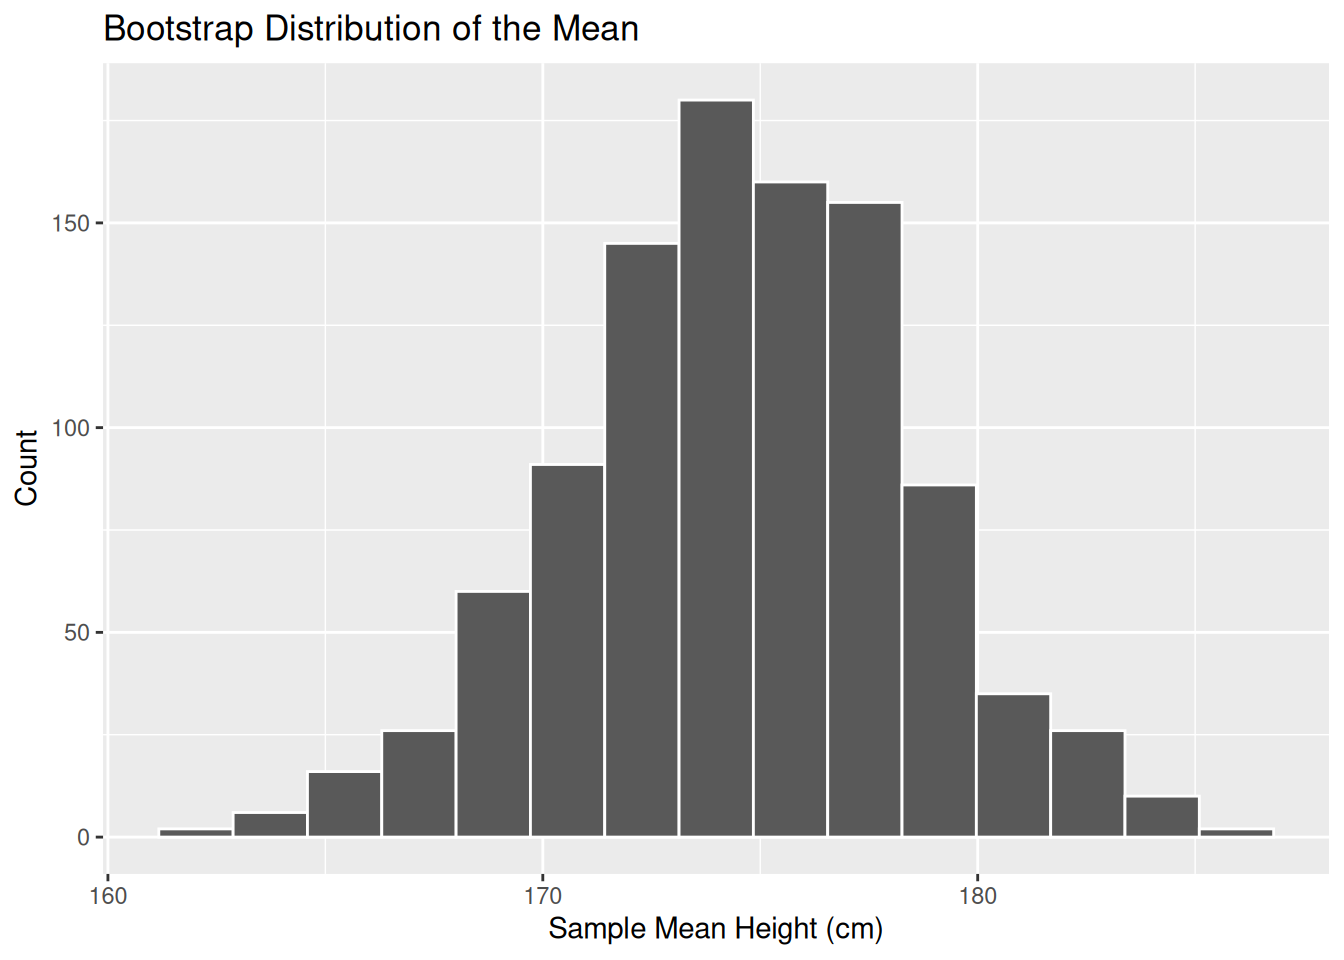
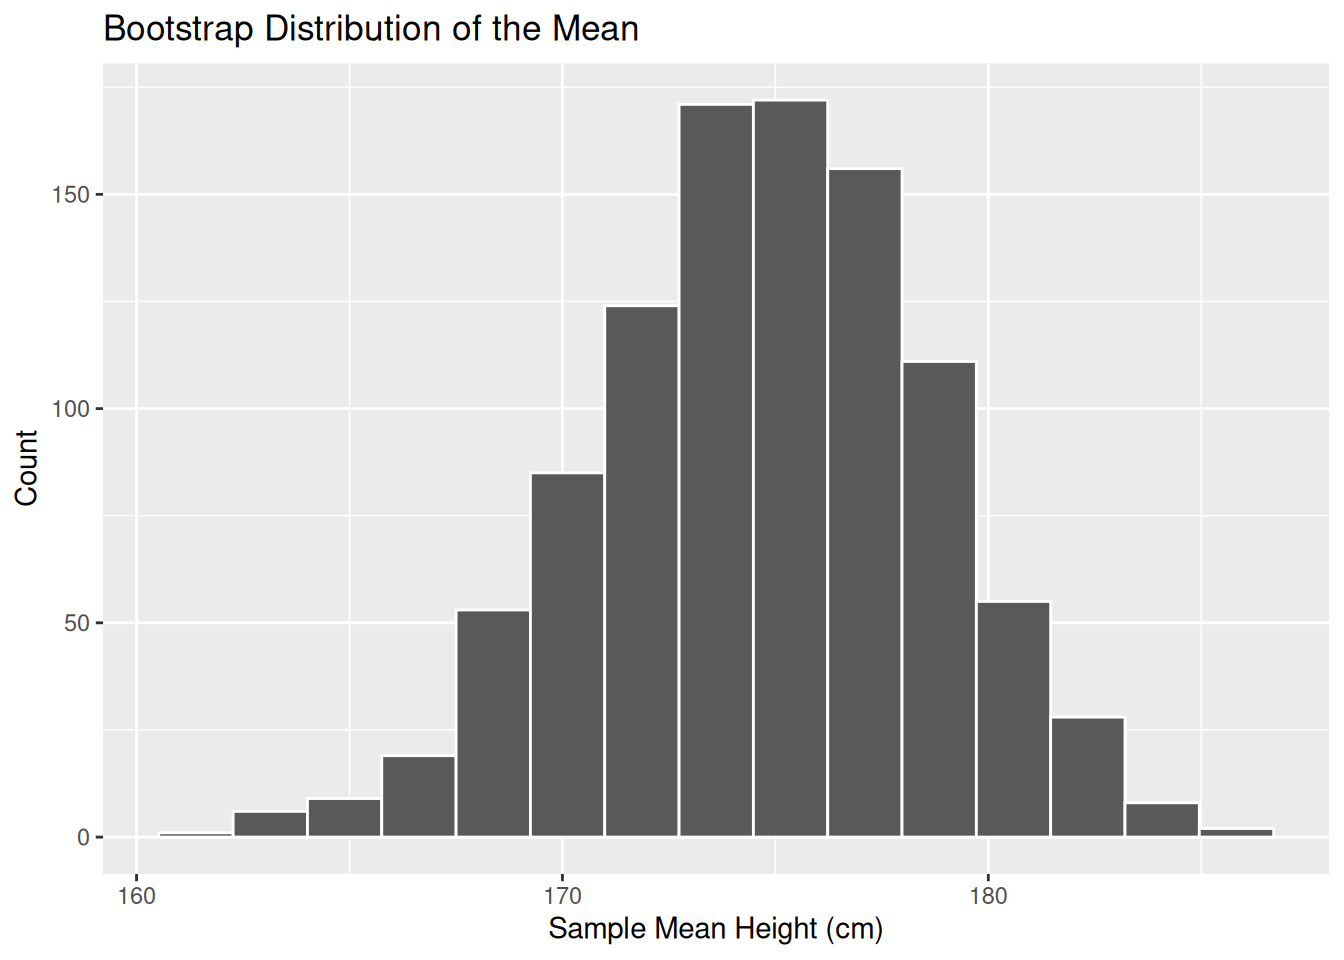
Built site for gh-pages

diff --git a/solutions/lab03-ans-x7m1.html b/solutions/lab03-ans-x7m1.html
@@ -7,7 +7,7 @@
 <meta name="viewport" content="width=device-width, initial-scale=1.0, user-scalable=yes">
 
 
-<title>Solution - Lab 3: Mathematical Notation in Quarto – MAT 186: Data Science</title>
+<title>Solution - Lab 03: Mathematical Notation – MAT 186: Data Science</title>
 <style>
 code{white-space: pre-wrap;}
 span.smallcaps{font-variant: small-caps;}
@@ -69,6 +69,35 @@ ul.task-list li input[type="checkbox"] {
   }
 }</script>
 
+  <script src="https://cdnjs.cloudflare.com/polyfill/v3/polyfill.min.js?features=es6"></script>
+  <script src="https://cdn.jsdelivr.net/npm/mathjax@3/es5/tex-chtml-full.js" type="text/javascript"></script>
+
+<script type="text/javascript">
+const typesetMath = (el) => {
+  if (window.MathJax) {
+    // MathJax Typeset
+    window.MathJax.typeset([el]);
+  } else if (window.katex) {
+    // KaTeX Render
+    var mathElements = el.getElementsByClassName("math");
+    var macros = [];
+    for (var i = 0; i < mathElements.length; i++) {
+      var texText = mathElements[i].firstChild;
+      if (mathElements[i].tagName == "SPAN" && texText && texText.data) {
+        window.katex.render(texText.data, mathElements[i], {
+          displayMode: mathElements[i].classList.contains('display'),
+          throwOnError: false,
+          macros: macros,
+          fleqn: false
+        });
+      }
+    }
+  }
+}
+window.Quarto = {
+  typesetMath
+};
+</script>
 
 <link rel="stylesheet" href="../style.css">
 </head>
@@ -115,7 +144,7 @@ ul.task-list li input[type="checkbox"] {
       <button type="button" class="quarto-btn-toggle btn" data-bs-toggle="collapse" role="button" data-bs-target=".quarto-sidebar-collapse-item" aria-controls="quarto-sidebar" aria-expanded="false" aria-label="Toggle sidebar navigation" onclick="if (window.quartoToggleHeadroom) { window.quartoToggleHeadroom(); }">
         <i class="bi bi-layout-text-sidebar-reverse"></i>
       </button>
-        <nav class="quarto-page-breadcrumbs" aria-label="breadcrumb"><ol class="breadcrumb"><li class="breadcrumb-item">Solution - Lab 3: Mathematical Notation in Quarto</li></ol></nav>
+        <nav class="quarto-page-breadcrumbs" aria-label="breadcrumb"><ol class="breadcrumb"><li class="breadcrumb-item">Solution - Lab 03: Mathematical Notation</li></ol></nav>
         <a class="flex-grow-1" role="navigation" data-bs-toggle="collapse" data-bs-target=".quarto-sidebar-collapse-item" aria-controls="quarto-sidebar" aria-expanded="false" aria-label="Toggle sidebar navigation" onclick="if (window.quartoToggleHeadroom) { window.quartoToggleHeadroom(); }">      
         </a>
       <button type="button" class="btn quarto-search-button" aria-label="Search" onclick="window.quartoOpenSearch();">
@@ -293,7 +322,11 @@ ul.task-list li input[type="checkbox"] {
     <h2 id="toc-title">On this page</h2>
    
   <ul>
-  <li><a href="#mathematical-notation-in-quarto---official-solutions" id="toc-mathematical-notation-in-quarto---official-solutions" class="nav-link active" data-scroll-target="#mathematical-notation-in-quarto---official-solutions">Mathematical Notation in Quarto - Official Solutions</a></li>
+  <li><a href="#lab-3-official-solutions" id="toc-lab-3-official-solutions" class="nav-link active" data-scroll-target="#lab-3-official-solutions">Lab 3 Official Solutions</a>
+  <ul class="collapse">
+  <li><a href="#task-1-the-standard-deviation-formula" id="toc-task-1-the-standard-deviation-formula" class="nav-link" data-scroll-target="#task-1-the-standard-deviation-formula">Task 1: The Standard Deviation Formula</a></li>
+  <li><a href="#task-2-inline-vs.-display-math" id="toc-task-2-inline-vs.-display-math" class="nav-link" data-scroll-target="#task-2-inline-vs.-display-math">Task 2: Inline vs.&nbsp;Display Math</a></li>
+  </ul></li>
   </ul>
 </nav>
     </div>
@@ -302,7 +335,7 @@ ul.task-list li input[type="checkbox"] {
 
 <header id="title-block-header" class="quarto-title-block default">
 <div class="quarto-title">
-<h1 class="title">Solution - Lab 3: Mathematical Notation in Quarto</h1>
+<h1 class="title">Solution - Lab 03: Mathematical Notation</h1>
 <p class="subtitle lead">MAT 186: Introduction to Data Science</p>
 </div>
 
@@ -327,28 +360,27 @@ ul.task-list li input[type="checkbox"] {
 
 
 <script>
-  var password = "MAT186LABSOER";
+  var password = "MAT186LABSOER"; 
   var res = prompt("DCC Instructor Key Required:");
   if (res != password) {
     alert("Incorrect password. Access denied.");
     window.location.href = "../index.html";
   }
 </script>
-<section id="mathematical-notation-in-quarto---official-solutions" class="level2">
-<h2 class="anchored" data-anchor-id="mathematical-notation-in-quarto---official-solutions">Mathematical Notation in Quarto - Official Solutions</h2>
-<div class="callout callout-style-default callout-note callout-titled">
-<div class="callout-header d-flex align-content-center">
-<div class="callout-icon-container">
-<i class="callout-icon"></i>
-</div>
-<div class="callout-title-container flex-fill">
-<span class="screen-reader-only">Note</span>Instructor Note
-</div>
-</div>
-<div class="callout-body-container callout-body">
-<p>Add your specific DCC lab answers below this box.</p>
-</div>
-</div>
+<section id="lab-3-official-solutions" class="level2">
+<h2 class="anchored" data-anchor-id="lab-3-official-solutions">Lab 3 Official Solutions</h2>
+<section id="task-1-the-standard-deviation-formula" class="level3">
+<h3 class="anchored" data-anchor-id="task-1-the-standard-deviation-formula">Task 1: The Standard Deviation Formula</h3>
+<p>The student was asked to render the sample standard deviation formula using LaTeX.</p>
+<p><strong>The expected output:</strong></p>
+<p><span class="math display">\[s = \sqrt{\frac{\sum_{i=1}^{n} (x_i - \bar{x})^2}{n - 1}}\]</span></p>
+</section>
+<section id="task-2-inline-vs.-display-math" class="level3">
+<h3 class="anchored" data-anchor-id="task-2-inline-vs.-display-math">Task 2: Inline vs.&nbsp;Display Math</h3>
+<ul>
+<li><strong>Inline Math:</strong> We use single dollar signs, like <span class="math inline">\(E = mc^2\)</span>, to put math inside a sentence.</li>
+<li><strong>Display Math:</strong> We use double dollar signs to center the math on its own line.</li>
+</ul>
 <p><br><br></p>
 <hr>
 <div class="content-block">
@@ -358,6 +390,7 @@ ul.task-list li input[type="checkbox"] {
 </div>
 
 
+</section>
 </section>
 
 </main> <!-- /main -->

diff --git a/labs/lab14.html b/labs/lab14.html
@@ -416,27 +416,27 @@ pre > code.sourceCode > span > a:first-child::before { text-decoration: underlin
 <tbody>
 <tr class="odd">
 <td style="text-align: right;">1</td>
-<td style="text-align: right;">177.9383</td>
+<td style="text-align: right;">170.8519</td>
 </tr>
 <tr class="even">
 <td style="text-align: right;">2</td>
-<td style="text-align: right;">179.6914</td>
+<td style="text-align: right;">165.8272</td>
 </tr>
 <tr class="odd">
 <td style="text-align: right;">3</td>
-<td style="text-align: right;">178.8765</td>
+<td style="text-align: right;">172.4938</td>
 </tr>
 <tr class="even">
 <td style="text-align: right;">4</td>
-<td style="text-align: right;">172.0370</td>
+<td style="text-align: right;">175.3827</td>
 </tr>
 <tr class="odd">
 <td style="text-align: right;">5</td>
-<td style="text-align: right;">174.1481</td>
+<td style="text-align: right;">172.8642</td>
 </tr>
 <tr class="even">
 <td style="text-align: right;">6</td>
-<td style="text-align: right;">174.2716</td>
+<td style="text-align: right;">178.5185</td>
 </tr>
 </tbody>
 </table>
@@ -497,8 +497,8 @@ Table&nbsp;1: 95% Confidence Interval for mean height using the Percentile Metho
 </thead>
 <tbody>
 <tr class="odd">
-<td style="text-align: right;">166.44</td>
-<td style="text-align: right;">182.35</td>
+<td style="text-align: right;">166.6</td>
+<td style="text-align: right;">182.01</td>
 </tr>
 </tbody>
 </table>
